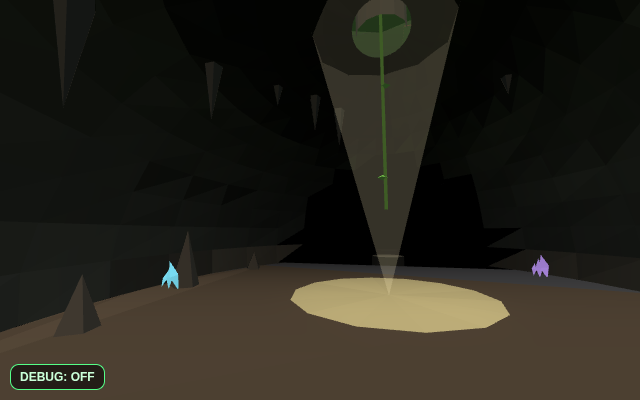
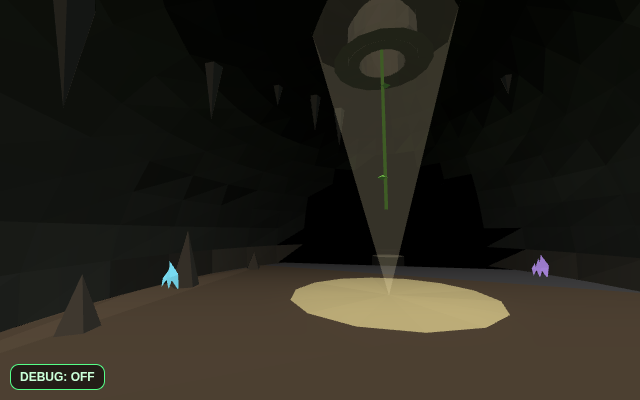
cave-test: solid rock walls on the vertical shaft and a grass, rock and dirt surface around the mouth

Changed region(s): [[0.5312, 0.0, 0.6562, 0.21]]

diff --git a/cave-test/main.js b/cave-test/main.js
@@ -2057,10 +2057,13 @@ function archPortal(b, cu, cv0, w, h, a, place) { // flat plate with an arch-sha
 // ===== shaft + mountain-top clearing (CXG.top); local RNG so jungle trees/bananas stay put =====
 {
   const rng = (() => { let x = 20261121; return () => { x ^= x << 13; x ^= x >>> 17; x ^= x << 5; return (x >>> 0) / 4294967296; }; })();
+  const rngG = (() => { let x = 20261127; return () => { x ^= x << 13; x ^= x >>> 17; x ^= x << 5; return (x >>> 0) / 4294967296; }; })();
   const rrL = (a, b) => a + rng() * (b - a);
+  const rrG = (a, b) => a + rngG() * (b - a);
   const rocks = ['#7d6a58', '#8a7663', '#6f5f50', '#958068', '#6a5848', '#82705e'];
   const greens = ['#5cbf4a', '#4fae40', '#69c957', '#58b84a', '#3fae3a'];
   const leafC2 = ['#3fae3a', '#5ccc3f', '#2f9a3a', '#7ad94a'];
+  const dirtC = ['#8a6e4e', '#7a5f40', '#6e5538', '#9a7a52', '#74583a'];
   const Y = CX.CLR_Y, sc = CX.SHAFT.c, sr = CX.SHAFT.r;
   const topM = new Merger();
   const cylABR = (mg, a, b, r0, r1, color, seg, vary) => {
@@ -2068,45 +2071,25 @@ function archPortal(b, cu, cv0, w, h, a, place) { // flat plate with an arch-sha
     const g = new THREE.CylinderGeometry(r1, r0, len, seg, 1, false);
     mg.add(g, color, M4(a.clone().add(b).multiplyScalar(0.5), qFromTo(UP, d)), vary, null, rng);
   };
-  // grass plateau with a hole for the shaft
+  const addFlat = (pts, color, vary, colorFn) => {
+    const g = new THREE.BufferGeometry();
+    g.setAttribute('position', new THREE.Float32BufferAttribute(pts, 3));
+    topM.add(g, color, null, vary, colorFn, rngG);
+  };
+  const pushTri = (out, a, b, c) => { out.push(a.x, a.y, a.z, b.x, b.y, b.z, c.x, c.y, c.z); };
+
+  // trees first, with the original rng stream, so their positions stay put
+  const tx = sc.x - 1.15, tz = sc.z - 0.15, th = 3.4;
   {
-    const nx = 26, nz = 16, x0 = -HALF + 0.15, x1 = HALF - 0.15, z0 = -51.2, z1 = -HALF - 0.2;
-    const posOf = (i, j) => {
-      const x = x0 + (x1 - x0) * i / nx, z = z0 + (z1 - z0) * j / nz;
-      const e = (rng() - 0.5) * 0.06;
-      return new V3(x, Y + e, z);
-    };
-    for (let i = 0; i < nx; i++) for (let j = 0; j < nz; j++) {
-      const a = posOf(i, j), b = posOf(i + 1, j), c = posOf(i, j + 1), d = posOf(i + 1, j + 1);
-      const mid = new V3((a.x + d.x) / 2, Y, (a.z + d.z) / 2);
-      if (Math.hypot(mid.x - sc.x, mid.z - sc.z) < sr + 0.35) continue; // shaft hole
-      const col = (mid.x < -6 || mid.z < -47) ? '#4a8a38' : greens[(rng() * 5) | 0];
-      const tri = (p, q, r) => topM.add(new THREE.BufferGeometry().setAttribute('position', new THREE.Float32BufferAttribute([p.x, p.y, p.z, q.x, q.y, q.z, r.x, r.y, r.z], 3)), col, null, 0.04, null, rng);
-      tri(a, b, c); tri(b, d, c);
-    }
-  }
-  // shaft tube (rock lining) from the dome ceiling up to the clearing, hole already cut in the dome mesh
-  {
-    const y0 = CX.SHAFT.y0 - 0.05, y1 = Y + 0.02, h = y1 - y0;
-    const tube = new THREE.CylinderGeometry(sr + 0.08, sr + 0.08, h, 12, 1, true);
-    topM.add(tube, '#5a5046', M4(new V3(sc.x, (y0 + y1) / 2, sc.z)), 0.08, null, rng);
-    // a slightly raised stone rim around the hole
-    topM.add(new THREE.TorusGeometry(sr + 0.22, 0.12, 6, 14), '#6a5c50', M4(new V3(sc.x, Y + 0.04, sc.z), new Q().setFromEuler(new THREE.Euler(Math.PI / 2, 0, 0))), 0.06, null, rng);
-  }
-  // the vine's tree at the rim (west-ish, so the vine hangs in the shaft centre)
-  {
-    const tx = sc.x - 1.15, tz = sc.z - 0.15, th = 3.4;
     const base = new V3(tx, Y - 0.2, tz), top = new V3(tx, Y + th, tz);
     cylABR(topM, base, top, 0.28, 0.18, '#7a4f2c', 7, 0.05);
     capColl(base, top, 0.26, 'trunk', 0.18);
     topM.add(new THREE.IcosahedronGeometry(1.5, 0), leafC2[(rng() * 4) | 0], M4(top.clone().add(new V3(0, 0.5, 0)), null, new V3(1.15, 0.7, 1.15)), 0.1, null, rng);
     topM.add(new THREE.IcosahedronGeometry(1.0, 0), leafC2[(rng() * 4) | 0], M4(top.clone().add(new V3(-0.5, 0.9, 0.3)), null, new V3(1, 0.7, 1)), 0.1, null, rng);
-    // a branch over the shaft the vine hangs from
     const ba = new V3(tx, Y + 2.9, tz), bb = new V3(sc.x, Y + 2.5, sc.z);
     cylABR(topM, ba, bb, 0.12, 0.08, '#8b5a33', 5, 0.05);
     capColl(ba, bb, 0.11, 'branch', 0.08);
   }
-  // trees to the left (west, -X) and north (-Z), thickening to a solid tree wall
   const clrTrees = [];
   const plantTree = (x, z, r, h, wall) => {
     const base = new V3(x, Y - 0.25, z), top = new V3(x, Y + h, z);
@@ -2116,21 +2099,18 @@ function archPortal(b, cu, cv0, w, h, a, place) { // flat plate with an arch-sha
     topM.add(new THREE.IcosahedronGeometry(r * 1.7, 0), leafC2[(rng() * 4) | 0], M4(top.clone().add(new V3(rrL(-1.1, 1.1), 1.1, rrL(-1.1, 1.1))), null, new V3(1, 0.7, 1)), 0.1, null, rng);
     clrTrees.push({ x, z, r, h, wall });
   };
-  // west thicket, denser toward x = -22
   for (let i = 0; i < 16; i++) {
     const x = -8 - rng() * 15, z = -28 - rng() * 22;
     if (Math.hypot(x - sc.x, z - sc.z) < 4.5) continue;
     if (x < -HALF + 0.8 || z > -HALF - 0.8 || z < -51) continue;
     plantTree(x, z, 0.45 + rng() * 0.35, 3.2 + rng() * 2.4, x < -16);
   }
-  // north thicket, denser toward z = -50
   for (let i = 0; i < 14; i++) {
     const x = -18 + rng() * 36, z = -47 - rng() * 4;
     if (Math.hypot(x - sc.x, z - sc.z) < 4.5) continue;
-    if (x > 20) continue; // leave the NE open so the exit ledges stay visible
+    if (x > 20) continue;
     plantTree(x, z, 0.5 + rng() * 0.3, 3.4 + rng() * 2.2, z < -49);
   }
-  // impassable tree wall along the west and north rims
   const wallPts = [];
   for (let z = -28; z > -51; z -= 1.35) wallPts.push([-22.6, z]);
   for (let x = -22; x < 16; x += 1.4) wallPts.push([x, -50.4]);
@@ -2138,6 +2118,82 @@ function archPortal(b, cu, cv0, w, h, a, place) { // flat plate with an arch-sha
     if (Math.hypot(x - sc.x, z - sc.z) < 5) continue;
     plantTree(x + rrL(-0.3, 0.3), z + rrL(-0.25, 0.25), 0.7, 4.2 + rng() * 1.2, true);
   }
+
+  // grass + dirt plateau: faces UP, clean circular hole at the shaft, no missing quads around the rim
+  const holeR = sr + 0.12;
+  const grassCol = (y, x, z) => {
+    const n = cxNoise(x * 0.28, z * 0.28, 44), n2 = cxNoise(x * 0.7, z * 0.7, 47);
+    if (n > 0.58 || n2 > 0.74) return dirtC[(Math.abs(Math.floor(x * 3 + z * 5)) % dirtC.length)];
+    if (x < -6 || z < -47) return '#4a8a38';
+    return greens[(Math.abs(Math.floor(x * 2.1 + z * 1.7)) % greens.length)];
+  };
+  {
+    const x0 = -HALF + 0.15, x1 = HALF - 0.15, z0 = -51.2, z1 = -HALF - 0.2;
+    const sh = new THREE.Shape();
+    sh.moveTo(x0, -z0); sh.lineTo(x1, -z0); sh.lineTo(x1, -z1); sh.lineTo(x0, -z1); sh.closePath();
+    const hole = new THREE.Path();
+    const hs = 20;
+    for (let i = 0; i <= hs; i++) {
+      const a = (i / hs) * Math.PI * 2, x = sc.x + Math.cos(a) * holeR, z = sc.z + Math.sin(a) * holeR;
+      if (i === 0) hole.moveTo(x, -z); else hole.lineTo(x, -z);
+    }
+    hole.closePath(); sh.holes.push(hole);
+    const gTop = new THREE.ShapeGeometry(sh).toNonIndexed();
+    gTop.rotateX(-Math.PI / 2);
+    const pa = gTop.attributes.position.array;
+    for (let i = 0; i < pa.length; i += 3) {
+      const d = Math.hypot(pa[i] - sc.x, pa[i + 2] - sc.z);
+      pa[i + 1] = d < holeR + 0.25 ? Y + 0.012 : Y + (cxNoise(pa[i] * 0.4, pa[i + 2] * 0.4, 41) - 0.5) * 0.07;
+    }
+    topM.add(gTop, '#58b84a', null, 0.04, grassCol, rngG);
+    // underside so the plateau is solid when you look up from the cave or the shaft
+    const under = [], rockFn = (y, x, z) => (cxNoise(x * 0.5, z * 0.5, 52) > 0.62 ? '#4a4036' : '#5a5046');
+    for (let i = 0; i < pa.length; i += 9) {
+      under.push(pa[i], pa[i + 1] - 0.1, pa[i + 2], pa[i + 6], pa[i + 7] - 0.1, pa[i + 8], pa[i + 3], pa[i + 4] - 0.1, pa[i + 5]);
+    }
+    addFlat(under, '#5a5046', 0.06, rockFn);
+    gTop.dispose();
+  }
+
+  // solid rock well: inner lining (visible from inside), outer shell, top rim, bottom flange onto the dome
+  const y0 = CX.SHAFT.y0 - 0.95, y1 = Y + 0.03, segs = 16, rings = 6, outerR = sr + 0.32, flangeR = sr + 0.7;
+  {
+    const inner = [], outer = [], rim = [], flange = [];
+    const at = (i, y, r, bump) => {
+      const a = (i / segs) * Math.PI * 2, e = bump ? 0.035 * (cxNoise(Math.cos(a) * 2.2, y * 0.7, 31) - 0.5) : 0;
+      return new V3(sc.x + Math.cos(a) * (r + e), y, sc.z + Math.sin(a) * (r + e));
+    };
+    for (let i = 0; i < segs; i++) for (let j = 0; j < rings; j++) {
+      const ya = y0 + (y1 - y0) * j / rings, yb = y0 + (y1 - y0) * (j + 1) / rings;
+      const a = at(i, ya, sr, true), b = at(i + 1, ya, sr, true), c = at(i, yb, sr, true), d = at(i + 1, yb, sr, true);
+      pushTri(inner, a, b, c); pushTri(inner, b, d, c); // inward
+      const A = at(i, ya, outerR, true), B = at(i + 1, ya, outerR, true), C = at(i, yb, outerR, true), D = at(i + 1, yb, outerR, true);
+      pushTri(outer, A, C, B); pushTri(outer, B, C, D); // outward
+    }
+    for (let i = 0; i < segs; i++) {
+      const i0 = at(i, y1, sr, false), i1 = at(i + 1, y1, sr, false), o0 = at(i, y1, outerR + 0.12, false), o1 = at(i + 1, y1, outerR + 0.12, false);
+      pushTri(rim, i0, i1, o0); pushTri(rim, i1, o1, o0); // up
+      const fi0 = at(i, y0, sr, false), fi1 = at(i + 1, y0, sr, false), fo0 = at(i, y0, flangeR, false), fo1 = at(i + 1, y0, flangeR, false);
+      pushTri(flange, fi0, fo0, fi1); pushTri(flange, fi1, fo0, fo1); // down, overlaps the dome hole
+    }
+    const wallFn = (y, x, z) => (cxNoise(x * 1.1, y * 0.6, 33) > 0.68 ? '#4a433c' : (y > Y - 0.4 ? '#6a5c50' : '#5a5046'));
+    addFlat(inner, '#5a5046', 0.08, wallFn);
+    addFlat(outer, '#4d443c', 0.08, wallFn);
+    addFlat(rim, '#6a5c50', 0.06, (y, x, z) => (cxNoise(x, z, 36) > 0.6 ? '#5a4e42' : '#6a5c50'));
+    addFlat(flange, '#4a433c', 0.07, wallFn);
+  }
+
+  // scattered rocks on the clearing (keep the shaft mouth, south cliff and spawn stand clear)
+  for (let i = 0; i < 16; i++) {
+    const a = rrG(0, Math.PI * 2), d = rrG(2.4, 11);
+    const x = sc.x + Math.cos(a) * d, z = sc.z + Math.sin(a) * d;
+    if (!inClrXZ({ x, z }) || z > -27.4 || x < -20 || z < -49.2) continue;
+    if (Math.hypot(x - 6.2, z + 39.5) < 1.6) continue;
+    const r = rrG(0.22, 0.55), c = new V3(x, Y + r * 0.28, z);
+    topM.add(new THREE.DodecahedronGeometry(r * 0.92, 0), rocks[(rngG() * rocks.length) | 0], M4(c, new Q().setFromEuler(new THREE.Euler(rngG(), rngG() * 6, rngG())), new V3(1, 0.8, 1)), 0.1, null, rngG);
+    addCol('rock', p => p.distanceTo(c) - r * 0.8, c, r, true, { clr: true });
+  }
+
   CXG.top.add(new THREE.Mesh(topM.build(), worldMat));
   // cheap daylight shaft: one spot + an unlit cone (culled with the group)
   const spot = new THREE.SpotLight(0xfff2c4, 3.4, 16, 0.32, 0.55, 1.1);
@@ -2149,15 +2205,17 @@ function archPortal(b, cu, cv0, w, h, a, place) { // flat plate with an arch-sha
   );
   cone.position.set(sc.x, CXF + coneH / 2, sc.z); cone.rotation.x = Math.PI; CXG.top.add(cone);
   scene.add(CXG.top);
-  // walkable clearing (hole at the shaft) + shaft walls
+  // walkable clearing (hole at the shaft) + shaft walls matching the rock well
   addCol('ground', p => {
     if (p.y < Y - 0.5 || !inClrXZ(p) || inShaftXZ(p, 0.02)) return 50; // thin plateau only — the cave underneath must stay hollow
     return (p.y - Y) * 0.95;
   }, new V3(0, Y, -38), 16, true, { clr: true });
   addCol('shaft', p => {
-    if (p.y < CX.SHAFT.y0 - 0.3 || p.y > Y + 0.25) return 99;
-    return CX.SHAFT.r - Math.hypot(p.x - sc.x, p.z - sc.z);
-  }, new V3(sc.x, (CX.SHAFT.y0 + Y) / 2, sc.z), 4, false);
+    if (p.y < y0 - 0.1 || p.y > Y - 0.12) return 99; // stop below the grass so the clearing stays walkable
+    const h = Math.hypot(p.x - sc.x, p.z - sc.z);
+    if (h > flangeR + 0.4) return 99;
+    return CX.SHAFT.r - h;
+  }, new V3(sc.x, (y0 + Y) / 2, sc.z), flangeR + 0.6, false);
   CX.clrTrees = clrTrees;
 }
 

diff --git a/test/cave.js b/test/cave.js
@@ -562,6 +562,37 @@ const HELPERS = () => {
   ok(shaft.climb.onTop && shaft.climb.spawns === 0, 'climbing the shaft vine gets you out onto the mountain-top clearing ' + JSON.stringify(shaft.climb));
   ok(shaft.onClr && /clearing/.test(shaft.zone) && shaft.fall.plat === 'top clearing' && shaft.fall.back && Math.abs(shaft.fall.t - 2.0) < 0.1 && shaft.treeWall, 'clearing is open grass, tree wall to the west/north, falling off the south cliff (toward the start) returns you there ' + JSON.stringify(shaft));
 
+  const shaftBuild = await p.evaluate(() => {
+    const CX = MM.CX, T = MM.THREE, v = new T.Vector3(), sc = CX.SHAFT.c, sr = CX.SHAFT.r, Y = CX.CLR_Y, F = CX.F;
+    const dAt = (x, y, z) => { v.set(x, y, z); const q = MM.nearest(v); return { d: q.d, kind: q.col && q.col.kind }; };
+    const r = { wall: [], air: [], ground: [], hole: [] };
+    const ys = [CX.SHAFT.y0 - 0.5, (CX.SHAFT.y0 + Y) / 2, Y - 0.35];
+    for (let i = 0; i < 16; i++) {
+      const a = i / 16 * Math.PI * 2, cx = Math.cos(a), cz = Math.sin(a);
+      for (const y of ys) {
+        const wall = dAt(sc.x + cx * (sr + 0.08), y, sc.z + cz * (sr + 0.08));
+        const air = dAt(sc.x + cx * 0.2, y, sc.z + cz * 0.2);
+        r.wall.push(wall.d); r.air.push(air.d);
+      }
+    }
+    // clearing ground around the mouth is solid; the opening itself is open (probe just above the grass)
+    for (let i = 0; i < 16; i++) {
+      const a = i / 16 * Math.PI * 2, g = dAt(sc.x + Math.cos(a) * 1.8, Y + 0.05, sc.z + Math.sin(a) * 1.8);
+      r.ground.push({ d: g.d, kind: g.kind });
+      const h = dAt(sc.x + Math.cos(a) * 0.15, Y + 0.05, sc.z + Math.sin(a) * 0.15);
+      r.hole.push(h.d);
+    }
+    C.stand(sc.x + 2.2, sc.z, 0, Y);
+    r.stand = { y: +C.head().y.toFixed(2), gd: MM.PH.grounded, plat: MM.PH.lastPlat && MM.PH.lastPlat.id };
+    r.wallOk = r.wall.every(d => d < 0.12);
+    r.airOk = r.air.every(d => d > 0.25);
+    r.groundOk = r.ground.every(g => g.d < 0.2);
+    r.holeOk = r.hole.every(d => d > 0.25);
+    return r;
+  });
+  ok(shaftBuild.wallOk && shaftBuild.airOk, 'shaft has solid rock walls all the way round and up, with a 1.22 m open well down the middle ' + JSON.stringify({ wallMax: Math.max(...shaftBuild.wall).toFixed(3), airMin: Math.min(...shaftBuild.air).toFixed(3) }));
+  ok(shaftBuild.groundOk && shaftBuild.holeOk && shaftBuild.stand.gd && shaftBuild.stand.plat === 'top clearing', 'clearing ground around the shaft mouth is solid (only the opening is a hole) and walkable ' + JSON.stringify(shaftBuild.stand));
+
   // ---------- 12. players don't clip through each other; two won't fit on the shaft vine ----------
   const peers = await p.evaluate(() => {
     const r = {}, CX = MM.CX, BODY = MM.BODY_R;
@@ -765,8 +796,10 @@ const HELPERS = () => {
   await p.evaluate(() => MM.labelsSet(true));
   await shot('cave_spawn_ocean.png', [0, 2.4, 20], Math.PI, -0.28); // south edge: ground ends, drop where wall 3 was
   await shot('cave_wall12_labels.png', [-16, 5, 8], -0.91, 0.06); // from the west, both wall 1 and wall 2 in frame
-  await shot('cave_shaft_below.png', [3, F + 1.4, -38], 0, 1.15);
+  await shot('cave_shaft_below.png', [3, F + 1.4, -38], 0, 1.15); // looking up the shaft from the wide cave
   await shot('cave_shaft_vine.png', [3, F + 1.5, -42.3], 0, 1.2, [{ p: [ -0.1, 2.0, -0.1 ] }, { p: [ 0.1, 2.0, 0.1 ] }]);
+  await shot('cave_shaft_mid.png', [3, 12.9, -42.3], 0.12, 0.95); // inside the shaft, looking up the rock walls toward daylight
+  await shot('cave_clearing_shaft.png', [6.2, MM_CLR + 2.4, -39.2], 0.83, -0.55); // clearing ground around the shaft mouth from above
   await shot('cave_clearing_trees.png', [6.2, MM_CLR + 1.6, -39.5], 0.7, 0.05); // look NW at the tree wall
   await shot('cave_clearing_cliff.png', [6.2, MM_CLR + 1.8, -27.2], Math.PI, -0.18); // south lip, looking toward the start
   await shot('cave_pillar4_dark.png', [3, F + 1.5, -65], Math.PI / 2, -0.08); // from pillar 3, look left at pillar 4 and the void
